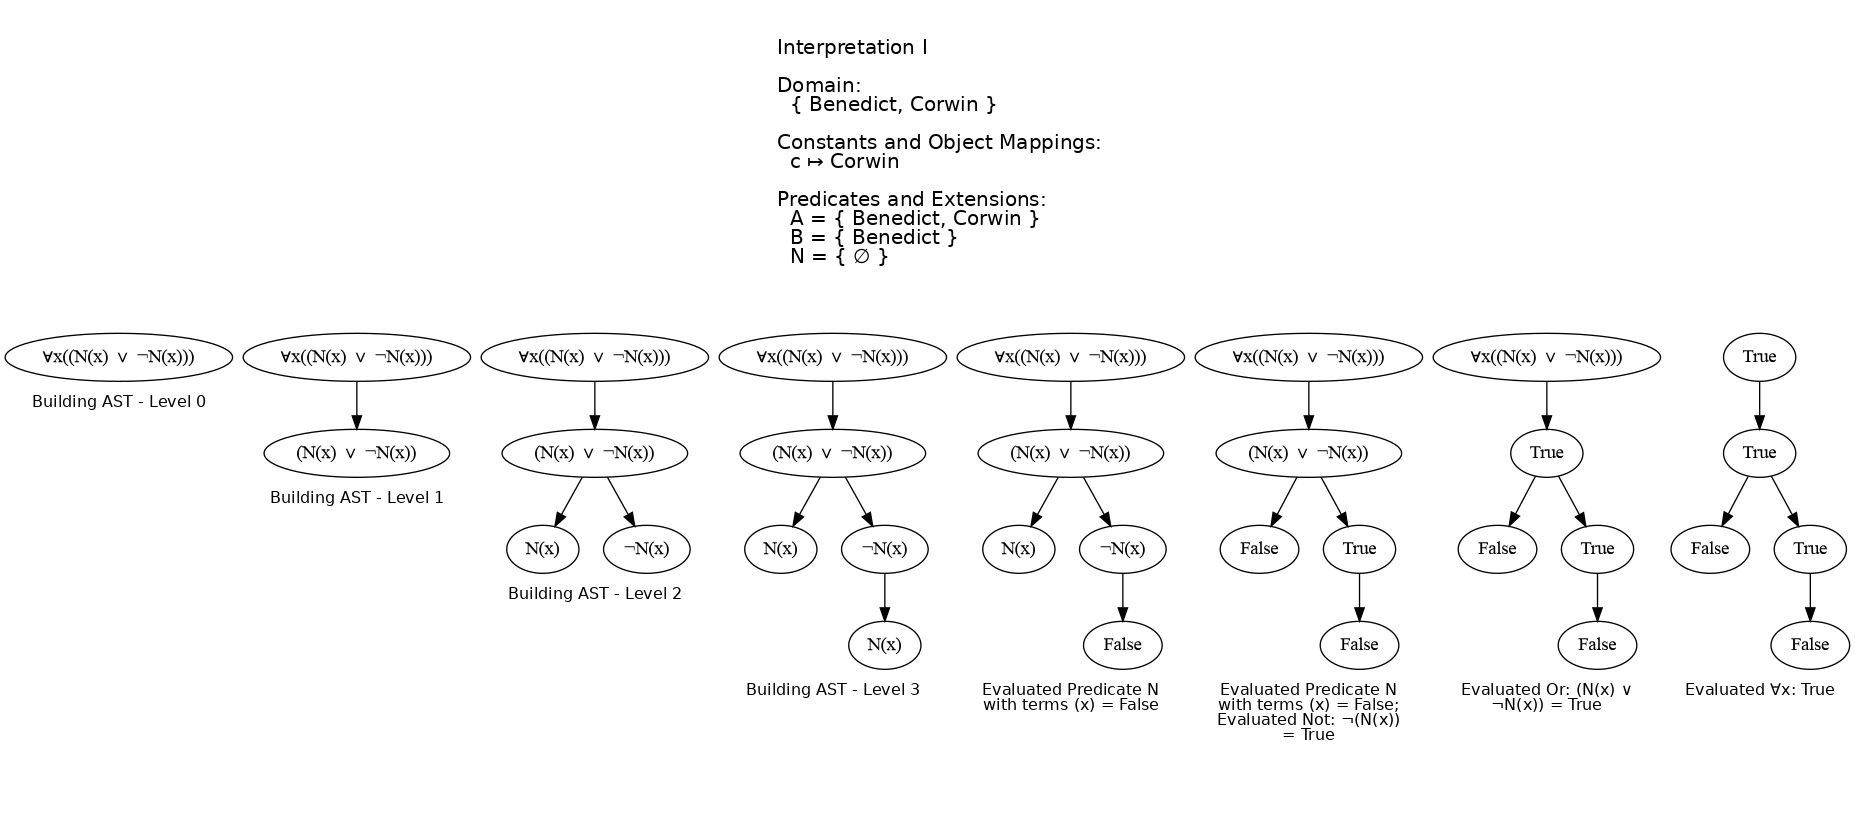
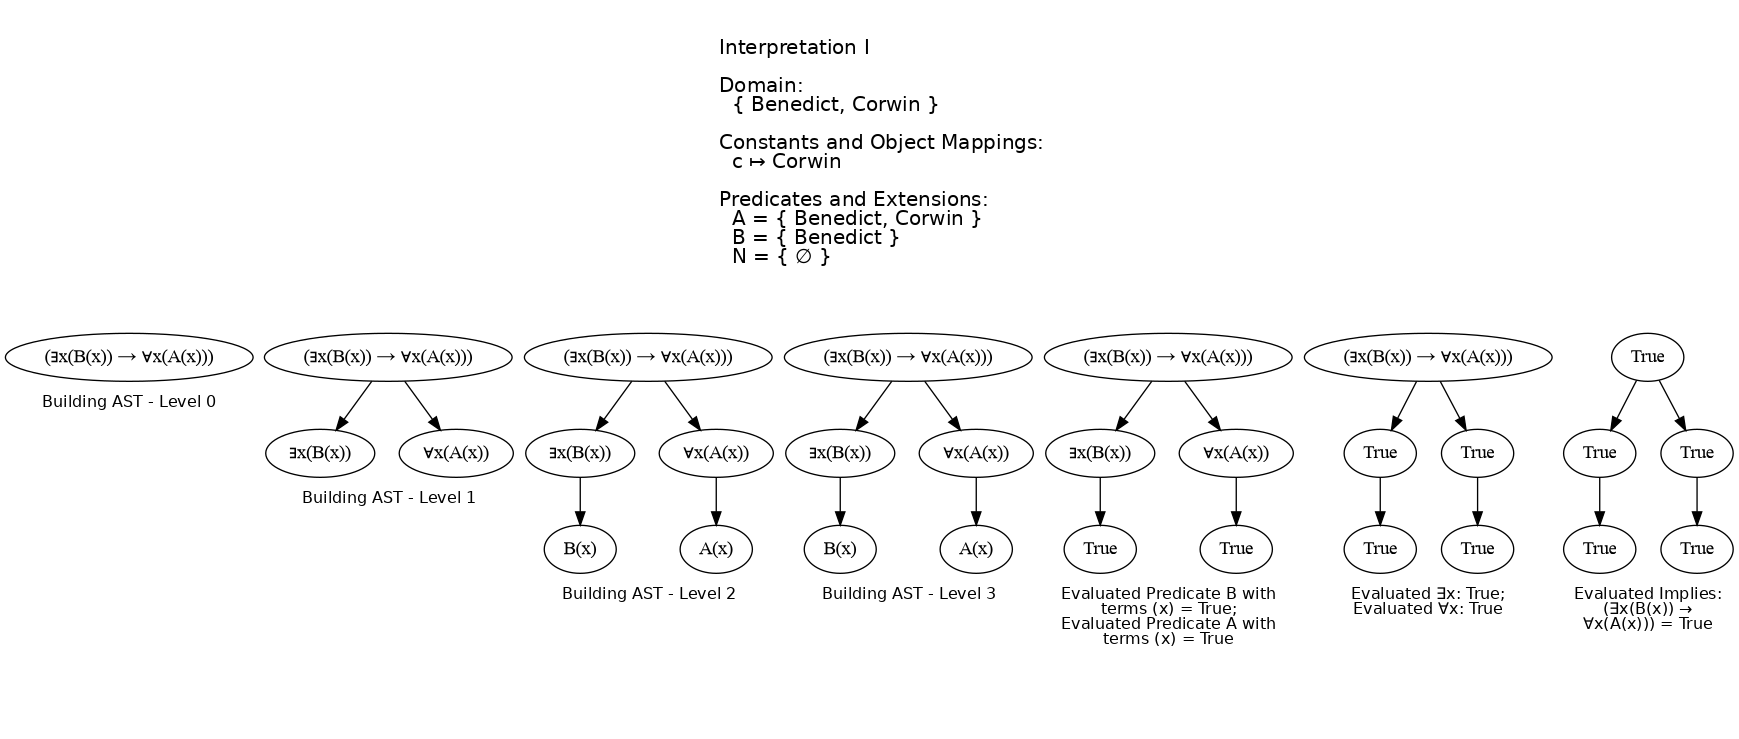
FOL backwards quantifier binding

Changed region(s): [[0.0, 0.0311, 1.0, 0.9026], [0.0311, 0.5291, 0.1242, 0.5602]]

diff --git a/src/interpretation.py b/src/interpretation.py
@@ -65,6 +65,7 @@ class Predicate:
         self.true_for.add(objects)
 
     def __call__(self, objects):
+        # print(f"Checking if {objects} is in {self.true_for}")
         return objects in self.true_for
 
 
@@ -193,6 +194,10 @@ class Interpretation:
         return self
 
     def add_constant_object_mapping(self, constant: Constant, obj: Any):
+        if obj not in self.domain:
+            raise ValueError(
+                f"Object {obj} assigned to constant {constant} is not in the domain."
+            )
         self.names[constant.name] = obj
         return self
 
@@ -204,19 +209,52 @@ class Interpretation:
         return self
 
     def add_predicate(self, predicate: Predicate):
+        for obj in predicate.true_for:
+            if isinstance(obj, (list, tuple)):
+                if any(o not in self.domain for o in obj):
+                    raise ValueError(
+                        f"Objects {obj} assigned to predicate {predicate} are not in the domain."
+                    )
+            elif obj not in self.domain:
+                raise ValueError(
+                    f"Object {obj} assigned to predicate {predicate} is not in the domain."
+                )
         self.predicates[predicate.name] = predicate
         return self
 
     def sentence_letter_truth_value(self, sentence_letter):
         return self.truth_values[sentence_letter]
 
-    def __call__(self, symbol: Symbol):
-        if isinstance(symbol, SentenceLetter):
+    def __call__(self, symbol: Symbol, *args):
+        if isinstance(symbol, SentenceLetter) or str(symbol) in self.truth_values:
             return self.sentence_letter_truth_value(symbol.letter)
-        if isinstance(symbol, Constant):
+        if isinstance(symbol, Constant) or str(symbol) in self.names:
             return self.names[symbol.name]
-        if isinstance(symbol, Predicate):
-            return symbol.true_for
+        if isinstance(symbol, Predicate) or str(symbol) in self.predicates:
+            ordered_pair = []
+            for arg in args:
+                if isinstance(arg, (tuple, set, list)):
+                    for a in arg:
+                        if isinstance(a, Constant) or str(a) in self.names:
+                            ordered_pair.append(self.names[str(a)])
+                        else:
+                            ordered_pair.append(a)
+                elif isinstance(arg, Constant) or str(arg) in self.names:
+                    ordered_pair.append(self.names[str(arg)])
+
+            result = False
+            for extension in self.predicates[str(symbol)].true_for:
+                if not isinstance(extension, (list, tuple, set)):
+                    assert (
+                        isinstance(ordered_pair, str) or len(ordered_pair) == 1
+                    ), f"Predicate expects 1 argument, got {ordered_pair} with length {len(ordered_pair)}"
+                    if isinstance(ordered_pair, (list, tuple, set)):
+                        ordered_pair = str(ordered_pair[0])
+
+                if str(extension) == str(ordered_pair):
+                    result = True
+                    break
+            return result
         if isinstance(symbol, str):
             # See if a predicate has same name
             if symbol in self.predicates:

diff --git a/src/fol_ast.py b/src/fol_ast.py
@@ -109,9 +109,7 @@ class Implies(Expr):
 class Parser:
     def __init__(self, tokens: List[str], interpretation: Interpretation):
         self.tokens = tokens
-        self.resolved_tokens = tokens[:]
         self.pos = 0
-        self.current_evaluation = True
         self.interpretation = interpretation
 
     def peek(self):
@@ -159,6 +157,19 @@ class Parser:
             quantifier = self.consume("QUANTIFIER").value
             variable = self.consume("VARIABLE").value
             expr = self.quantified()
+
+            # If the quantifier is universal, bind all objects in the domain on the interpretation to the variable so that the evaluator can use it
+            if quantifier == "∀":
+                for obj in self.interpretation.domain:
+                    self.interpretation.add_constant_object_mapping(
+                        Constant(variable), obj
+                    )
+            if quantifier == "∃":
+                for obj in self.interpretation.domain:
+                    self.interpretation.add_constant_object_mapping(
+                        Constant(variable), obj
+                    )
+
             return Quantifier(quantifier, variable, expr)
         return self.negation()
 
@@ -197,4 +208,3 @@ class Parser:
         elif token.type == "CONSTANT":
             return self.consume("CONSTANT").value
         raise ValueError(f"Unexpected term token: {token}")
-

diff --git a/src/ast_evaluate_progressive.py b/src/ast_evaluate_progressive.py
@@ -33,7 +33,8 @@ def evaluate_level(nodes: List[Node], interpretation: Interpretation) -> str:
     captions = []
     for node in nodes:
         if isinstance(node, Predicate):
-            node.evaluated_value = interpretation(node.name)(tuple(node.terms))
+            print(f"Evaluating Predicate: {node.name} with terms {node.terms}")
+            node.evaluated_value = interpretation(node.name, tuple(node.terms))
             captions.append(
                 f"Evaluated Predicate {node.name} with terms ({', '.join(node.terms)}) = {node.evaluated_value}"
             )
@@ -88,6 +89,7 @@ def evaluate_level(nodes: List[Node], interpretation: Interpretation) -> str:
 def evaluate_with_binding(
     expr, interpretation: Interpretation, variable: str, value: Any
 ):
+    print(f"Adding binding: {variable} -> {value}")
     interpretation.add_constant_object_mapping(Constant(variable), value)
     result = evaluate(expr, interpretation)
     interpretation.remove_constant_object_mapping(variable)

diff --git a/src/main.py b/src/main.py
@@ -13,9 +13,9 @@ from image_creation import (
 )
 
 symbol_remap = {
-    "or": "∨",
+    "forall": "∀",
+    "exists": "∃",
     "|": "∨",
-    "and": "∧",
     "&": "∧",
     "&&": "∧",
     "not": "¬",
@@ -24,8 +24,8 @@ symbol_remap = {
     "=>": "→",
     "->": "→",
     "—>": "→",
-    "forall": "∀",
-    "exists": "∃",
+    "and": "∧",
+    "or": "∨",
 }
 
 
@@ -52,6 +52,7 @@ I_a = (
 )
 
 formula = remap_symbols("∀x(N(x) or !N(x))")
+formula = remap_symbols("exists x (B(x)) -> forall x (A(x))")
 
 tokens = tokenize(formula)
 parser = Parser(tokens, I_a)

diff --git a/src/ast_evaluate.py b/src/ast_evaluate.py
@@ -7,7 +7,7 @@ from interpretation import Interpretation
 def evaluate(node, interpretation: Interpretation):
     if isinstance(node, Predicate):
         # Base case: Evaluate the predicate with its terms
-        return interpretation(node.name)(tuple(node.terms))
+        return interpretation(node.name, tuple(node.terms))
 
     elif isinstance(node, Not):
         # Negation: recursively evaluate and negate the result
